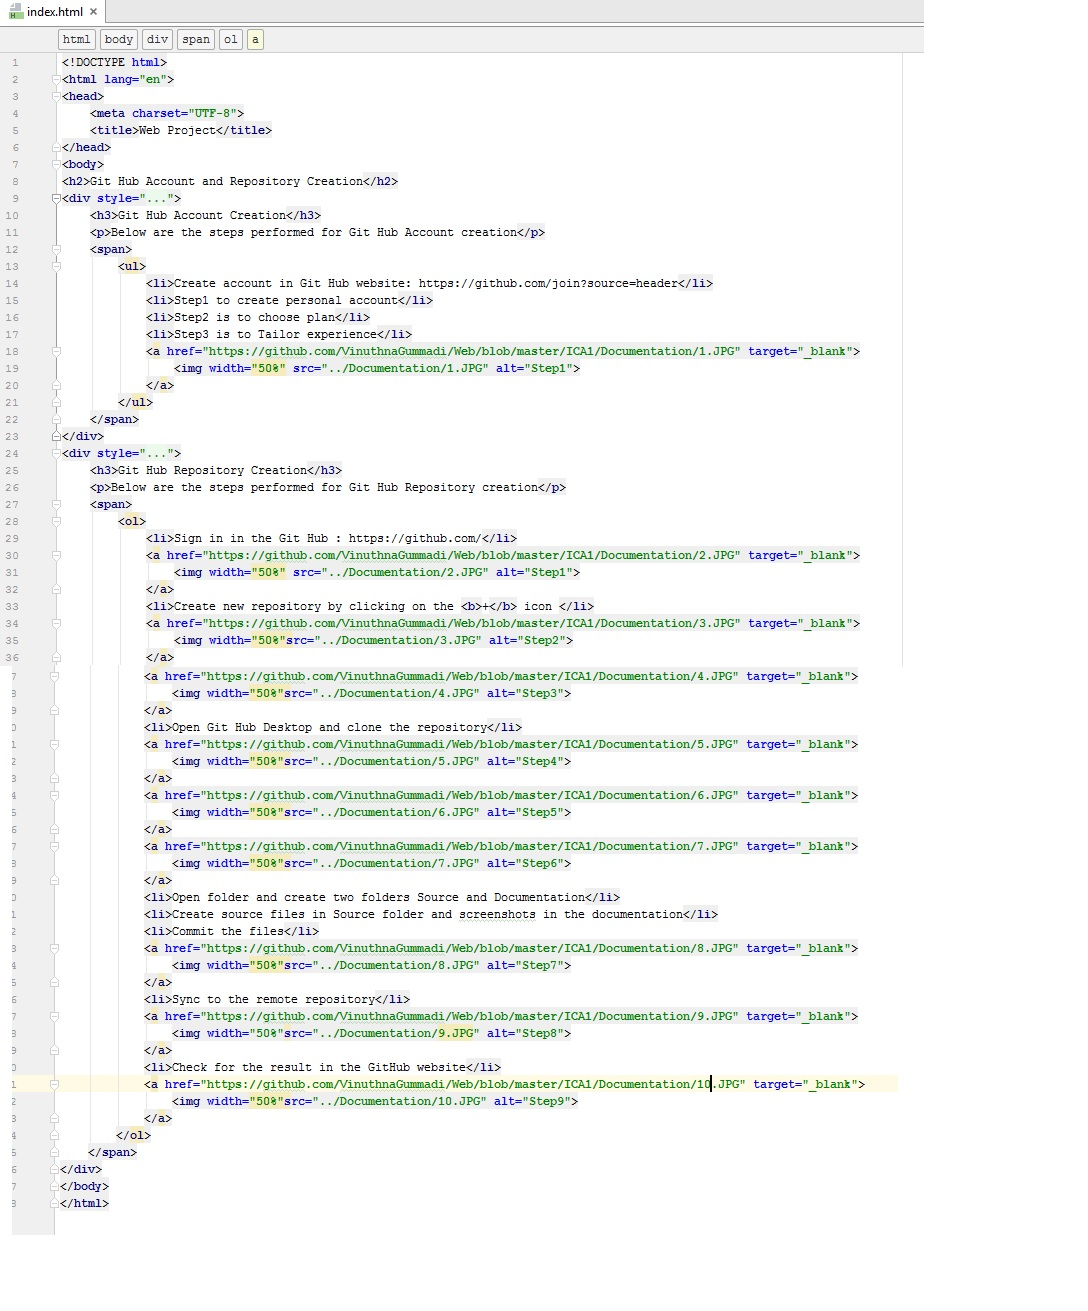
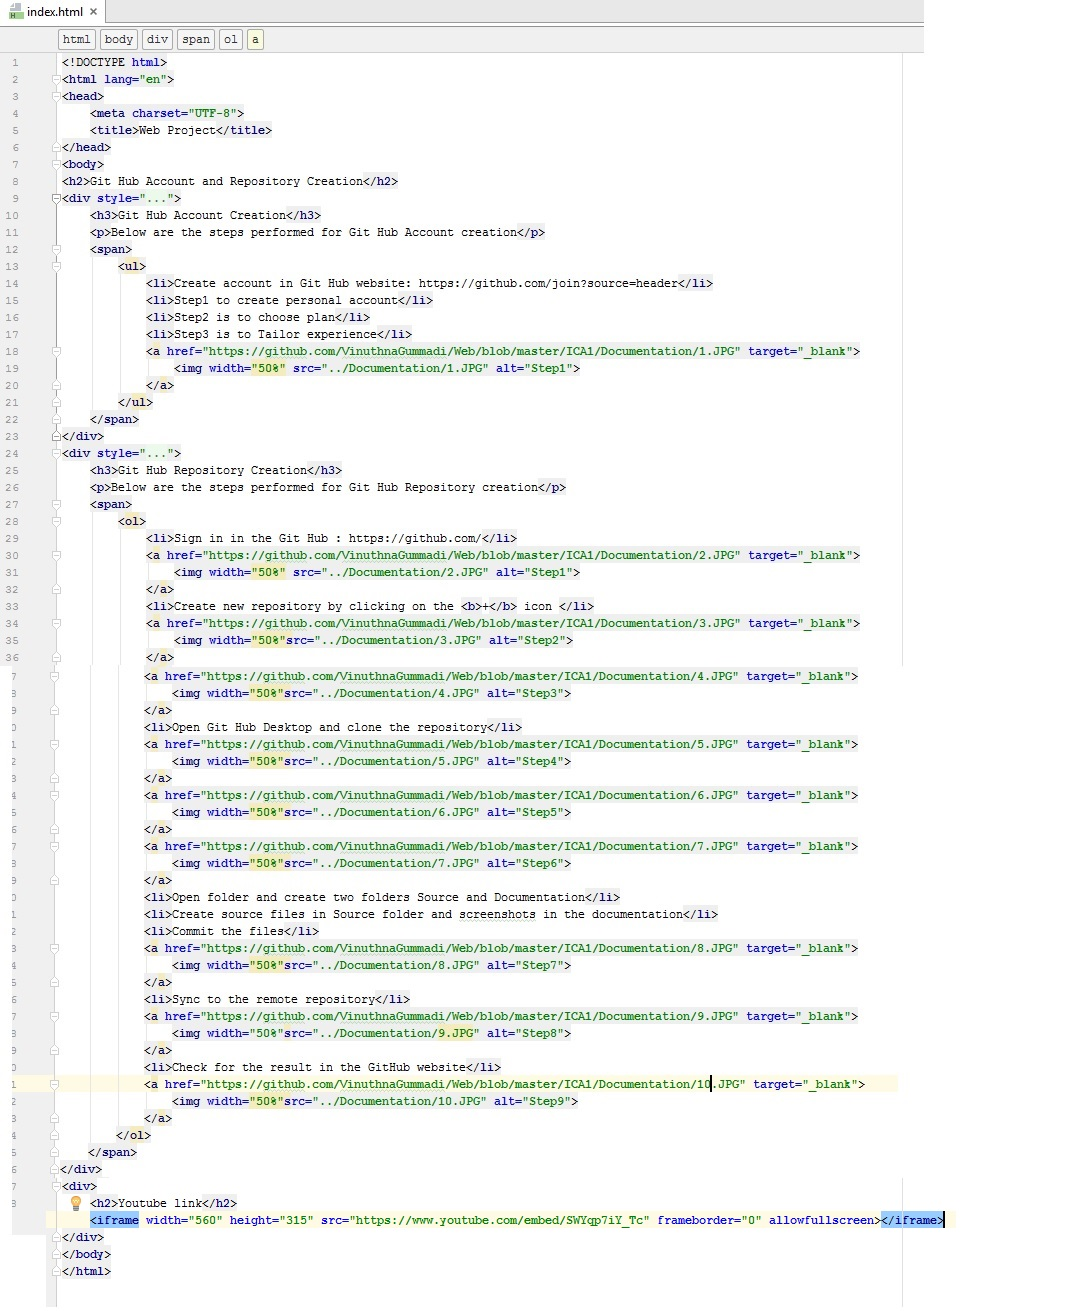
commit

Changed region(s): [[0.0312, 0.8848, 0.875, 0.9764]]

diff --git a/ICA1/Source/CSS_InClass/GoogleTask/style.css b/ICA1/Source/CSS_InClass/GoogleTask/style.css
@@ -1,0 +1,190 @@
+* {
+  margin: 0;
+  border: 0;
+  padding: 0;
+  list-style-type: none;
+}
+
+body {
+  font-family: Arial, sans-serif;
+}
+
+#nav-bar {
+  height: 150px;
+  margin-top: 20px;
+  margin-right: 30px;
+  position: absolute;
+  right: 10px;
+}
+#nav-bar li {
+  display: inline-block;
+  padding: 5px;
+  vertical-align: middle;
+}
+#nav-bar a {
+  text-decoration: none;
+  color: black;
+}
+
+#nav-bar a:hover {
+  opacity: 1;
+  text-decoration: underline;
+}
+
+.nav-bar-opacity {
+  opacity: 0.7;
+}
+
+#menu-icon {
+  background-image: url("https://ssl.gstatic.com/gb/images/i2_2ec824b0.png");
+  width: 30px;
+  height: 30px;
+  background-position: -132px -38px;
+  background-size: 528px 68px;
+}
+
+#menu-icon:hover {
+  opacity: 1;
+}
+
+#sign-in {
+  padding: 8px 11px;
+  background-color: #4285f4;
+  border-radius: 2px;
+}
+
+#sign-in-text {
+  color: white !important;
+  font-weight: bold;
+  text-decoration: none !important;
+}
+
+.main-content {
+  position: relative;
+  width: 450px;
+  height: 250px;
+  margin: 0 auto;
+  top: 25vh;
+  display: flex;
+  justify-content: center;
+  align-content: center;
+  flex-wrap: wrap;
+}
+
+.main-content img {
+  width: 272px;
+  height: 92px;
+}
+
+#search-bar {
+  position: relative;
+  flex-basis: 100%;
+  height: 40px;
+  margin-top: 20px;
+  border-radius: 1px;
+  border: solid 1px #DDD;
+  box-shadow: 0px 2px 3px rgba(0, 0, 0, 0.16);
+}
+
+#search-bar:hover {
+  box-shadow: 0px 2px 4px rgba(0, 0, 0, 0.25);
+}
+
+input {
+  position: relative;
+  width: 400px;
+  height: 100%;
+  left: 10px;
+  font-size: 20px;
+}
+
+input:focus {
+  outline-style: none;
+}
+
+#speech-link img {
+  position: absolute;
+  display: block;
+  width: 32px;
+  height: auto;
+  z-index: 1;
+  bottom: 4px;
+  left: 388px;
+}
+
+.buttons {
+  width: 25vw;
+  display: flex;
+  justify-content: center;
+  align-items: center;
+}
+
+.buttons button {
+  width: 160px;
+  height: 45px;
+  background-color: rgb(240, 240, 240);
+  margin: 20px 5px;
+  font-weight: bold;
+  font-size: 15px;
+  border-radius: 3px;
+}
+p {
+  opacity: 0.5;
+}
+.buttons button:hover p {
+  opacity: 1;
+}
+.buttons button:hover {
+  border: solid 1px #BBB;
+}
+footer {
+  position: absolute;
+  width: 100vw;
+  bottom: 0;
+}
+.bottom-nav {
+  display: flex;
+  height: 40px;
+  justify-content: space-around;
+  align-items: center;
+  background-color: #EEE;
+  opacity: 0.5;
+  border-top: solid 1px #CCC;
+}
+footer li {
+  display: inline;
+  margin: 0 20px;
+  font-size: 14px;
+}
+footer a {
+  text-decoration: none;
+  color: black;
+}
+.ul-left {
+  position: absolute;
+  left: 0;
+  top: 10px;
+}
+.ul-right {
+  position: absolute;
+  right: 0;
+  top: 10px;
+}
+footer a:hover {
+  text-decoration: underline;
+}
+#tiles {
+  width: 100%;
+}
+#tiles .box{
+  float: left;
+  width: 28%;
+  height: 50%;
+  border:1px solid black;
+  margin: 10px
+}
+#tiles .box .imgbox{
+  height:100%;
+  width:100%;
+  object-fit: contain
+}

diff --git a/ICA1/Source/CSS_InClass/GoogleTask/index.html b/ICA1/Source/CSS_InClass/GoogleTask/index.html
@@ -1,0 +1,66 @@
+<DOCTYPE html>
+  <html>
+    <head>
+      <link href="style.css" type="text/css" rel="stylesheet">
+    </head>
+
+    <body>
+      <ul id="nav-bar">
+        <li><a href="#" class="nav-bar-opacity">Gmail</a></li>
+        <li><a href="#" class="nav-bar-opacity">Images</a></li>
+        <li><a href="#"><div id="menu-icon" class="nav-bar-opacity"></div></a></li>
+        <li><img style="width: 50px;height:50px;" src="../bell.png"></li>
+        <li><img style="width: 50px;height:50px;border-radius: 50%;" src="../vinuthna.jpg"></li>
+      </ul>
+
+      <div class="main-content">
+        <div id="logo">
+          <img src="https://www.google.com/images/branding/googlelogo/1x/googlelogo_color_272x92dp.png" alt="Google logo">
+        </div>
+        <div id="search-bar">
+          <input type="text" name="search">
+          <a href="#" id="speech-link"><img src="https://lh5.googleusercontent.com/OorCLDb2xlVQ4P2MDNCiwAnpv0K1ZrcDwEwRS3sOfDMrnYTnVPvCh7WtFQMbZ_S9u_jzcSLd8g=s128-h128-e365" alt="Speech icon"></a>
+        </div>
+        <div class="buttons">
+          <button name="Google-Search"><p>Google Search</p></button>
+          <button name="Feeling-Lucky"><p>I'm Feeling Lucky</p></button>
+        </div>
+
+        <div id="tiles">
+          <div class="box">
+            <img class="imgbox" src="../ToDo.png" alt="Step9">
+          </div>
+          <div class="box">
+            <img class="imgbox" src="../ToDo.png" alt="Step9">
+          </div>
+          <div class="box">
+            <img class="imgbox" src="../ToDo.png" alt="Step9">
+          </div>
+          <div class="box">
+            <img class="imgbox" src="../ToDo.png" alt="Step9">
+          </div>
+          <div class="box">
+            <img class="imgbox" src="../ToDo.png" alt="Step9">
+          </div>
+          <div class="box">
+            <img class="imgbox" src="../ToDo.png" alt="Step9">
+          </div>
+        </div>
+        </div>
+    </body>
+    <footer>
+      <div class="bottom-nav">
+        <ul class="ul-left">
+          <li><a href="#">Advertising</a></li>
+          <li><a href="#">Business</a></li>
+          <li><a href="#">About</a></li>
+        </ul>
+        <ul class="ul-right">
+          <li><a href="#">Privacy</a></li>
+          <li><a href="#">Terms</a></li>
+          <li><a href="#">Settings</a></li>
+
+        </ul>
+      </div>
+    </footer>
+  </html>

diff --git a/ICA1/Source/index.html b/ICA1/Source/index.html
@@ -64,5 +64,9 @@
         </ol>
     </span>
 </div>
+<div>
+    <h2>Youtube link</h2>
+    <iframe width="560" height="315" src="https://www.youtube.com/embed/SWYqp7iY_Tc" frameborder="0" allowfullscreen></iframe>
+</div>
 </body>
 </html>
